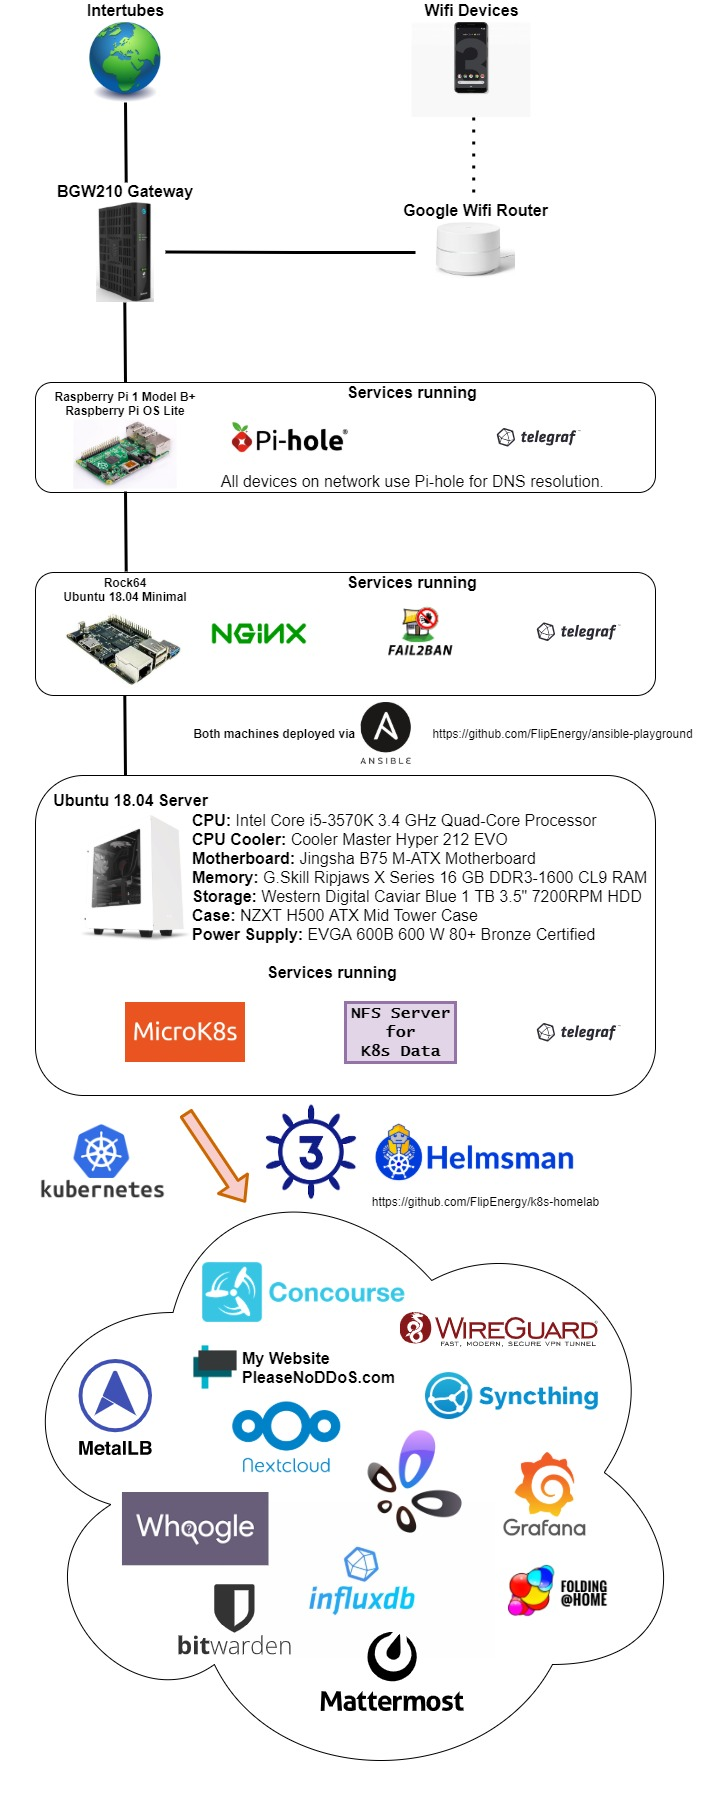
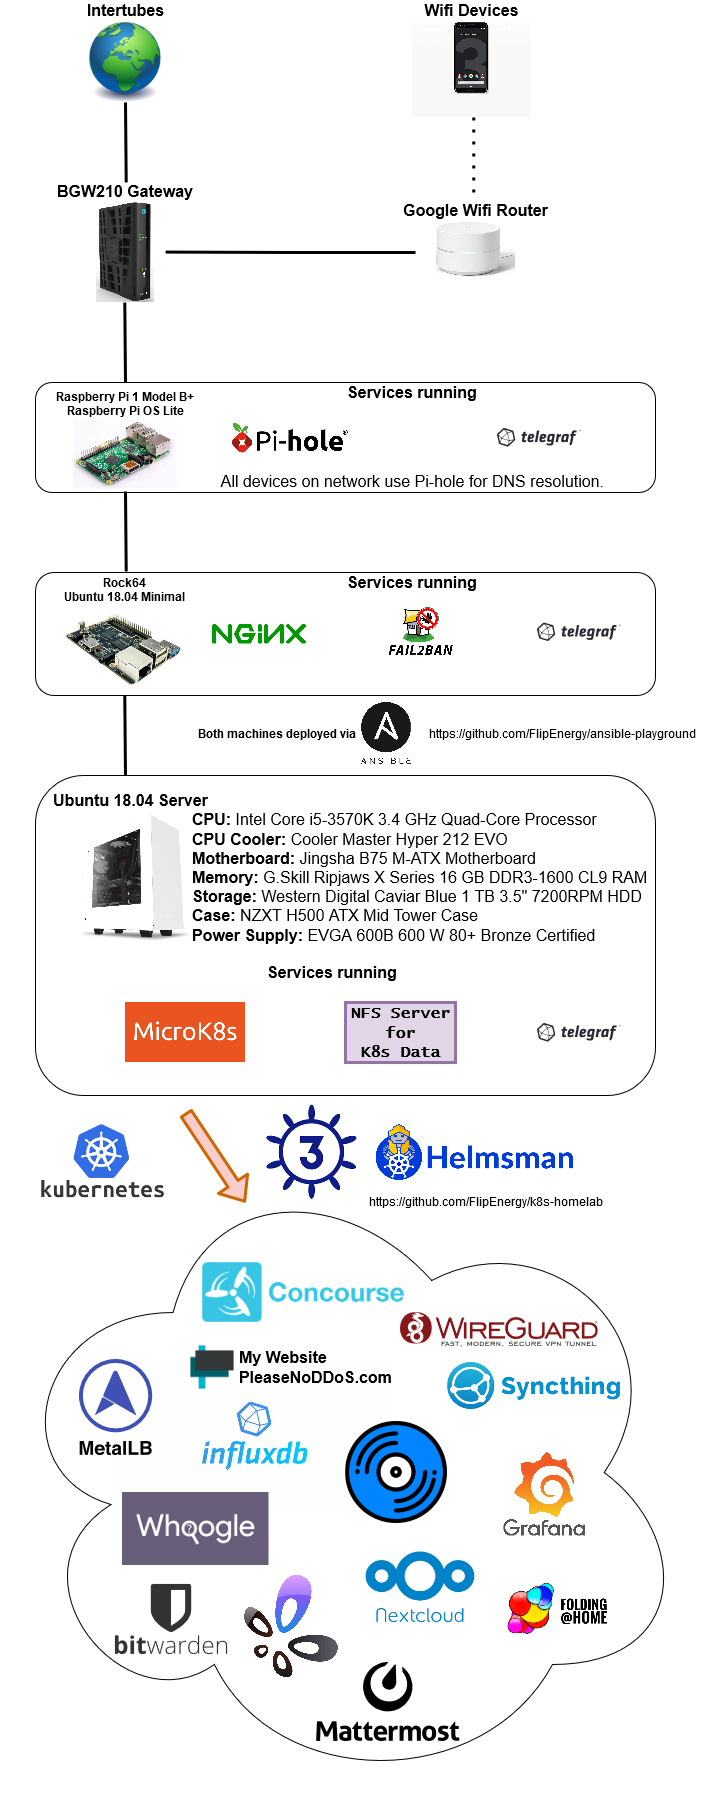
Navidrome

diff --git a/flipenergy/content/post/navidrome.md b/flipenergy/content/post/navidrome.md
@@ -1,0 +1,15 @@
+---
+title: "Navidrome: self-hosted music streaming"
+date: 2020-12-31T17:28:33-08:00
+draft: false
+---
+
+When this whole pandemic is over and I'm back working in the office, I'll need a way to listen to my music from my work laptop. I used to use Google Play Music but that's going away and I want to self-host opensource applications instead. So, I took some time and looked through a few options to stream music including Airsonic, Subsonic, Polaris, and Funkwhale.
+
+I tried Polaris at first, and it was simple and clean. However, I just simply didn't like the UI. It felt dated and the project doesn't seem as well supported as alternatives.
+
+Enter [Navidrome](https://www.navidrome.org/). This one is kinda like Polaris. Simple, dockerized, light-weight, and has a much more modern material UI. I wrote a helm chart for it and pointed it to my syncthing music directory so my library will be automatically updated whenever I buy new songs.
+
+For those who care, it also supports the Subsonic API if you want to download a compatible app to stream to your phone. Anyways, I'm really happy with it and I highly recommend Navidrome.
+
+![Navidrome UI](ss-desktop-player.png)
